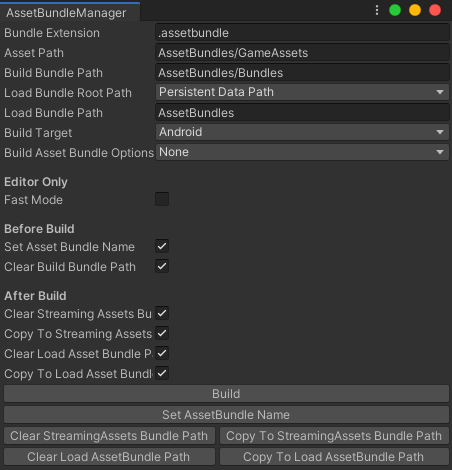
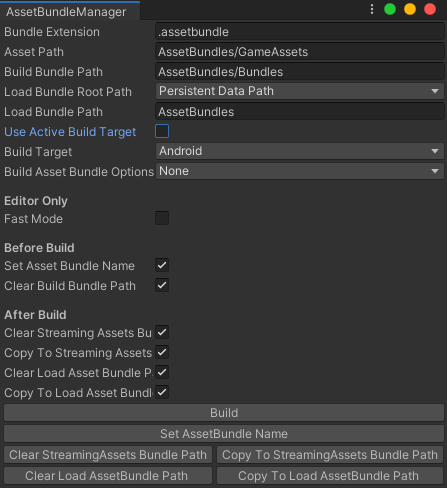
Add UseActiveBuildTarget option.

Changed region(s): [[0.0, 0.0, 1.0, 1.0], [0.8143, 0.0, 0.9888, 0.0596], [0.349, 0.5064, 0.3781, 0.5957]]

diff --git a/Runtime/AssetBundleManagerSetting.cs b/Runtime/AssetBundleManagerSetting.cs
@@ -16,7 +16,7 @@ namespace GameUtil
         public string BuildBundlePath;
         public LoadBundlePathMode LoadBundleRootPath = LoadBundlePathMode.StreamingAssets;
         public string LoadBundlePath;
-        public bool UseActiveBuildTarget;
+        public bool UseActiveBuildTarget = true;
         public int BuildTarget = 13;//BuildTarget.Android;
         public int BuildAssetBundleOptions = 0;//BuildAssetBundleOptions.None;
 #if UNITY_EDITOR
